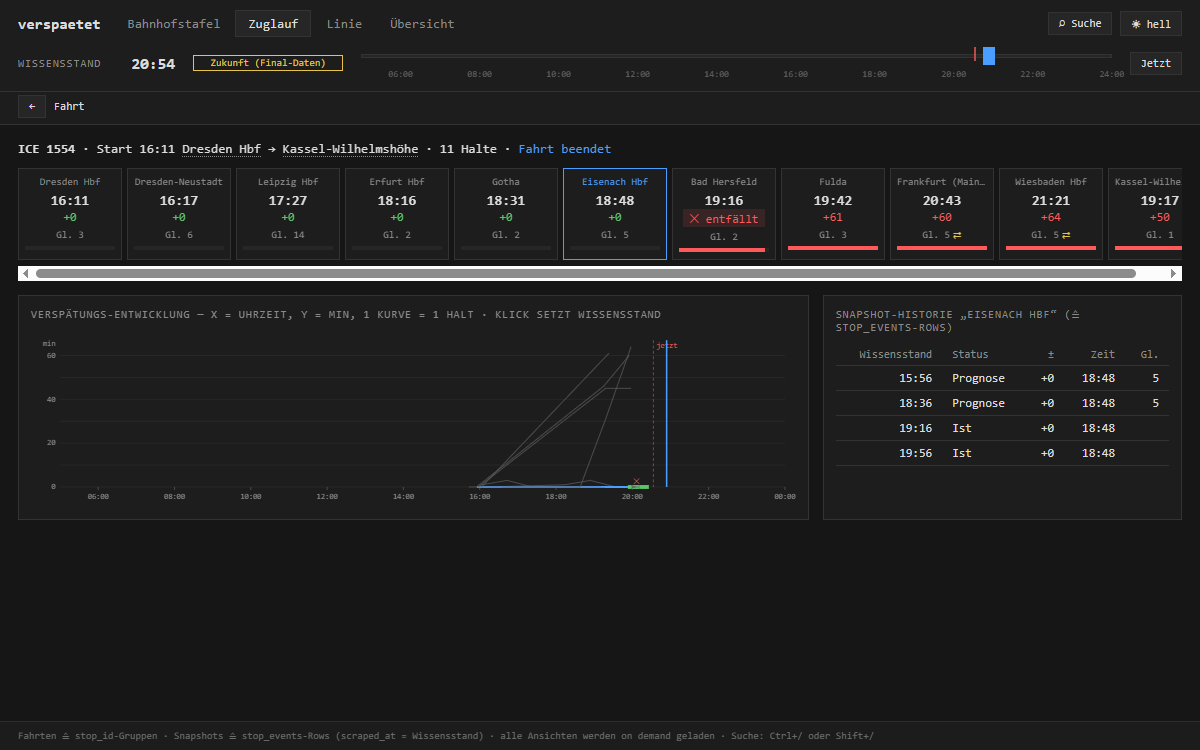
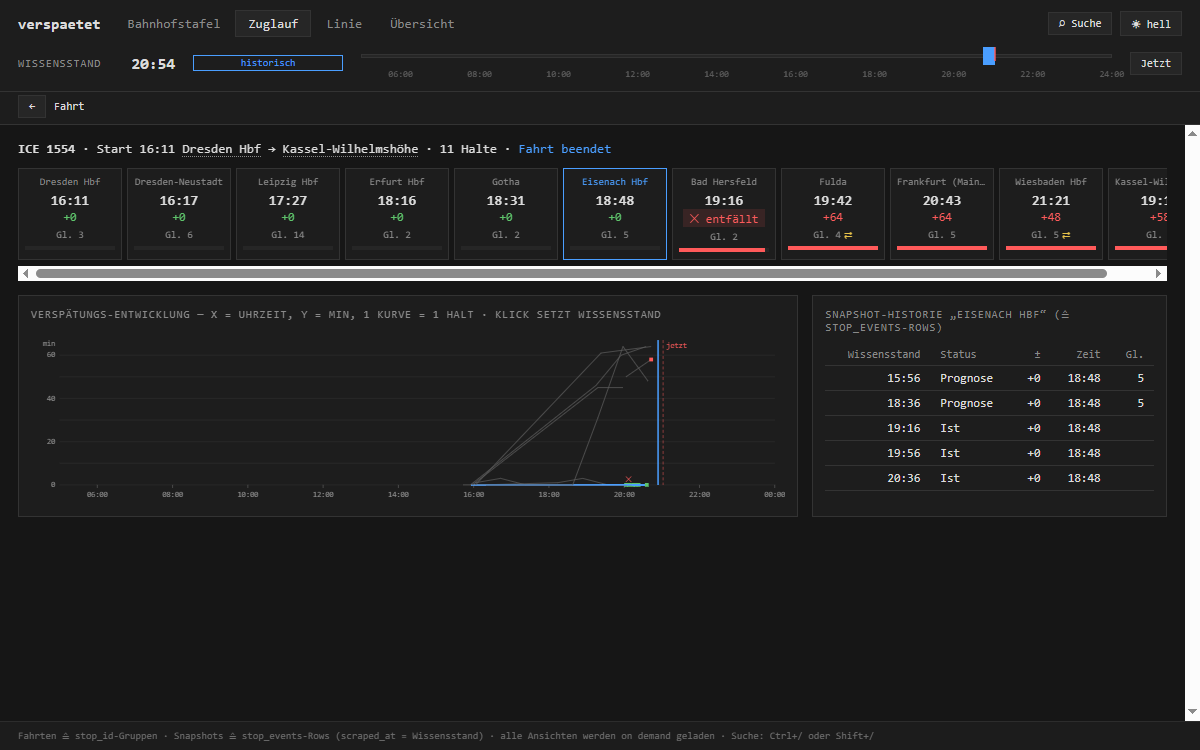
dataui: stops strip always-on horizontal scrollbar — tiles jumped when new stops made the strip scrollable

diff --git a/web/src/index.css b/web/src/index.css
@@ -121,7 +121,7 @@ svg text { font-family: inherit; }
 .stitem .n { color: var(--muted); font-size: 11px; }
 
 /* ---------- Zuglauf ---------- */
-.stops { display: flex; gap: 5px; margin-bottom: 14px; overflow-x: auto; padding-bottom: 6px; }
+.stops { display: flex; gap: 5px; margin-bottom: 14px; overflow-x: scroll; overflow-y: hidden; padding-bottom: 6px; } /* Scrollbar IMMER da: sonst hüpfen die Kacheln hoch, wenn wachsender Inhalt (Entfall-Batch) die Strip-Scrollbar einblendet */
 .stop { flex: 0 0 auto; width: 104px; border: 1px solid var(--border); background: var(--bg2); padding: 7px 6px; cursor: pointer; text-align: center; }
 .stop:hover { background: var(--bg3); }
 .stop.sel { border-color: var(--accent); }

diff --git a/README.md b/README.md
@@ -21,6 +21,8 @@ Served by the same API process on `:8080`, React + Vite, no external chart libra
 
 ![Trip view: delay evolution per stop, knowledge slider mid-afternoon](img/dataui-journey.png)
 
+![Line view: every trip of a line along its route — heatmap and worst-run ranking](img/dataui-line.png)
+
 ![Station board Frankfurt (Main) Hbf](img/dataui-board.png)
 
 ## Ops monitoring
